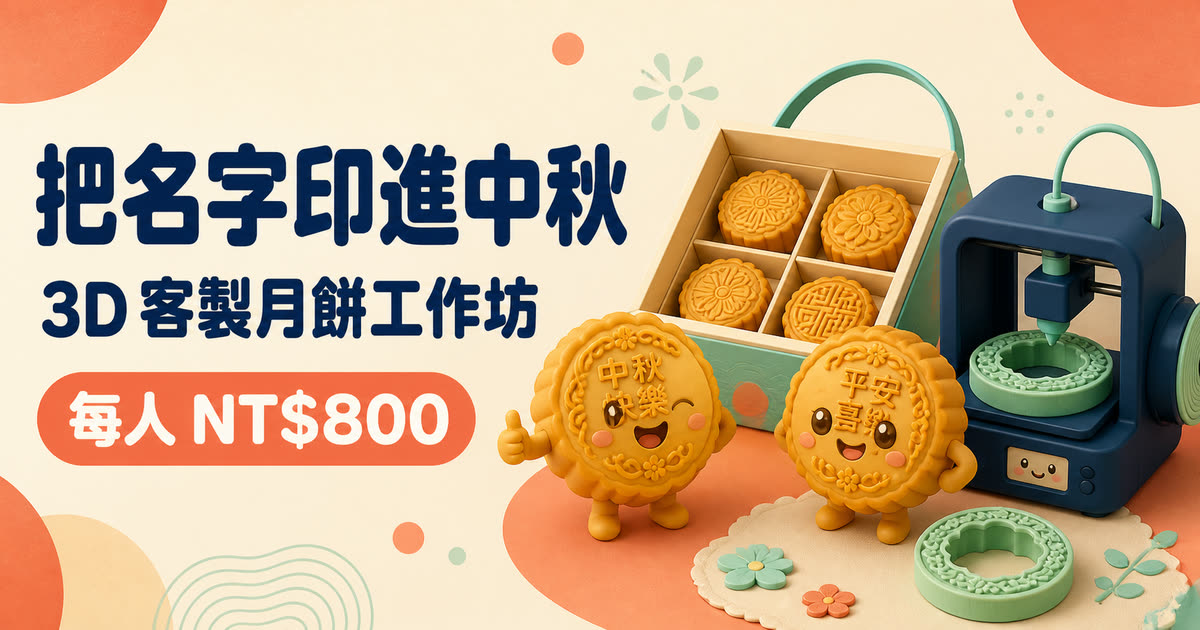
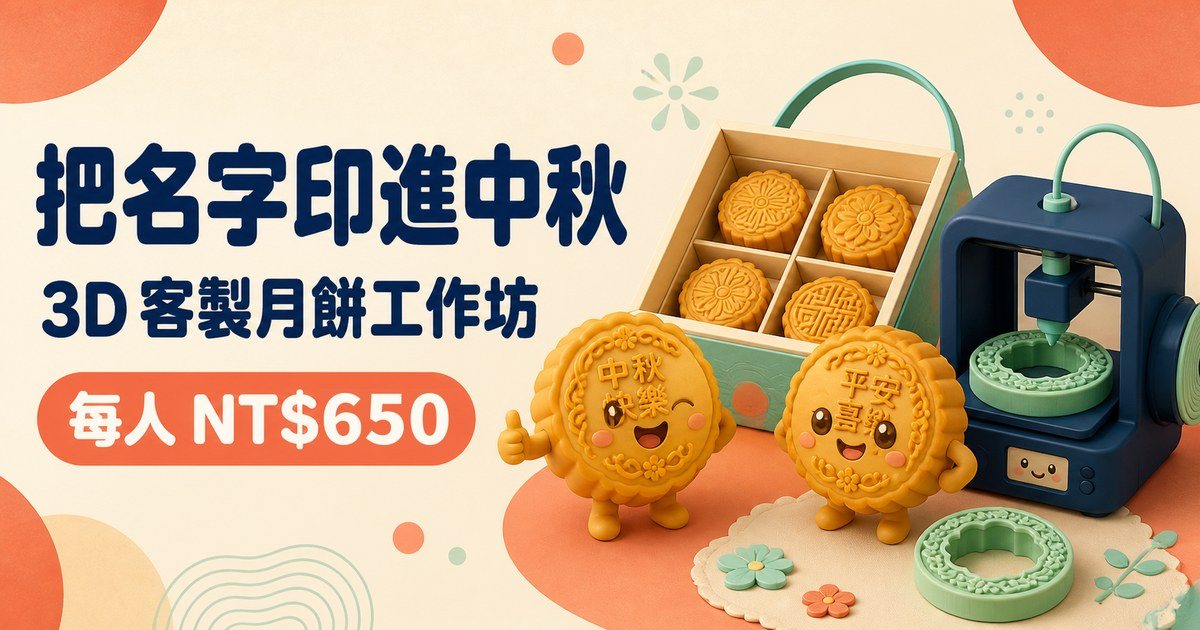
OG 分享圖價格改成 NT$650
網站文字在 0c621e3 就已對齊傳單改為 650，但 public/og.jpg 是從
ChatGPT Sites 搬過來後沒再重產的舊素材，圖上仍印著 NT$800，
Facebook／LINE 抓連結預覽時就顯示錯的價格。

- og.png：以 Noto Sans TC Black 重畫膠囊內的三位數字（原圖用的
  就是這支字型），字寬、字距 62px 步進與基線都對齊原本位置，
  其餘像素未動；og.jpg 由母圖重新輸出 1200x630
- layout.tsx：og:image 加上 ?v=650，強制各平台重新抓圖，
  否則同網址會一直吃到已快取的 800 版

Changed region(s): [[0.2467, 0.6032, 0.37, 0.7238]]

diff --git a/app/layout.tsx b/app/layout.tsx
@@ -10,7 +10,7 @@ export async function generateMetadata(): Promise<Metadata> {
   const host = requestHeaders.get("x-forwarded-host") ?? requestHeaders.get("host") ?? "localhost:3000";
   const protocol = requestHeaders.get("x-forwarded-proto") ?? (host.includes("localhost") ? "http" : "https");
   const origin = `${protocol}://${host}`;
-  const socialImage = `${origin}/og.jpg`;
+  const socialImage = `${origin}/og.jpg?v=650`;
 
   return {
     title,

diff --git a/README.md b/README.md
@@ -133,7 +133,7 @@ Static Assets 提供，**不經過** Worker 的 `/_vinext/image` 最佳化端點
 | 用途 | 檔案 | 大小 |
 |---|---|---|
 | Hero 主視覺 | `hero-mascots-cutout.webp` | 127 KB（原 PNG 2.5 MB） |
-| OG 分享圖 | `og.jpg` 1200×630 | 151 KB（原 PNG 2.0 MB） |
+| OG 分享圖 | `og.jpg` 1200×630 | 156 KB（原 PNG 1.9 MB） |
 | Logo／favicon | `weiyan-logo-256.jpg` | 11 KB（原 156 KB） |
 
 換圖時請照這個規格壓過再放，不要直接丟原始檔。未壓縮的原圖
